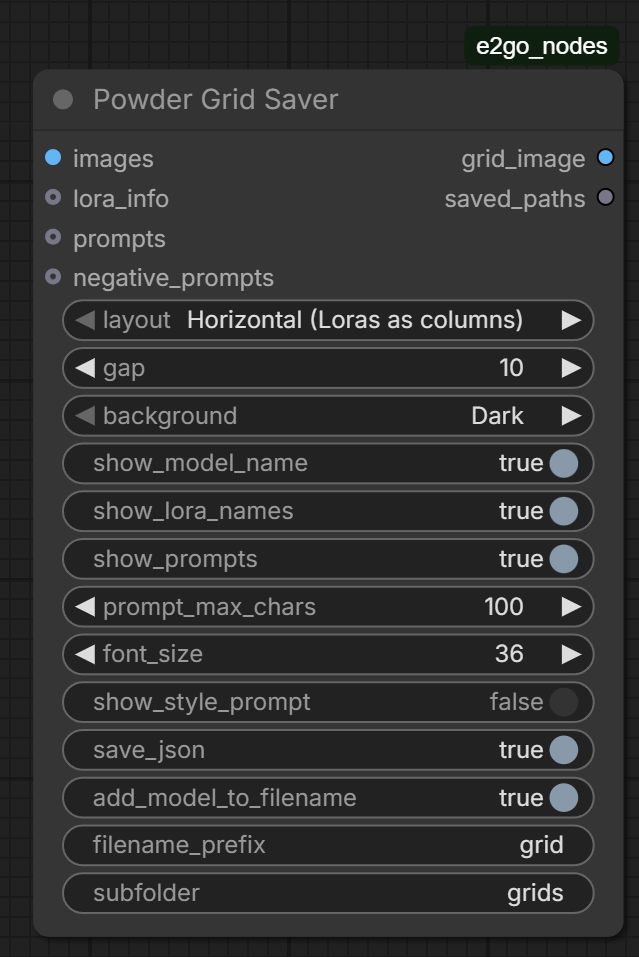
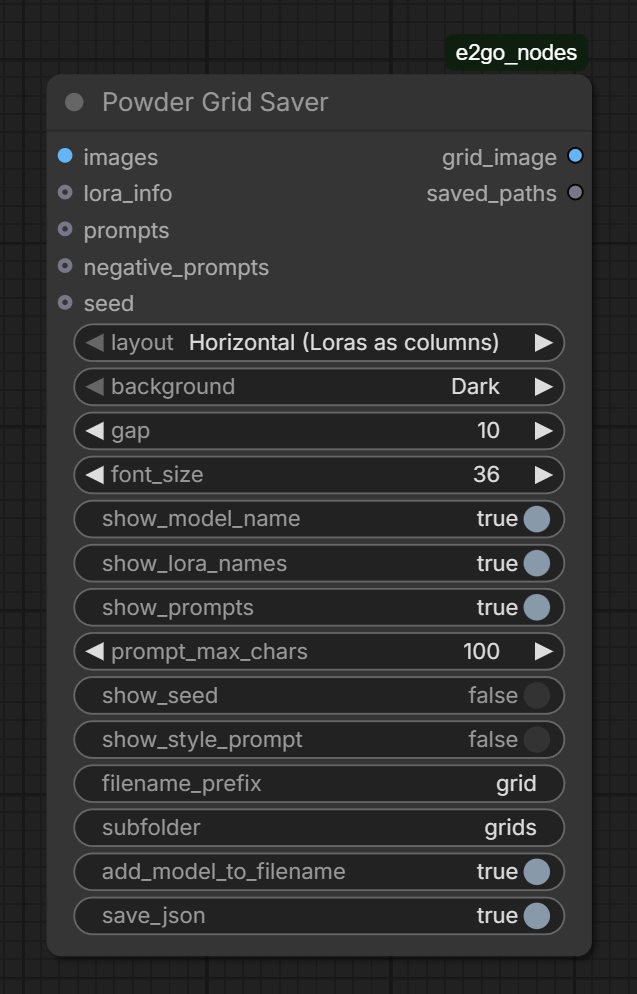
Add per-cell seed display and batch support to Grid Saver
- Add show_seed toggle and seed input with batch-aware labeling (Seed: N [i/batch])
- Cyclic extension of prompts/negatives when fewer than grid cells
- Include batch_size, per-image seeds and batch_indices in JSON metadata
- Reorganize inputs into Layout / Display / Save groups
- Remove unused 7W_Icons style
- Update documentation and screenshots

Changed region(s): [[0.0597, 0.0909, 0.9843, 0.9697], [0.0895, 0.0909, 0.5369, 0.1212], [0.7159, 0.0303, 0.9545, 0.0606]]

diff --git a/powder_grid.py b/powder_grid.py
@@ -41,24 +41,29 @@ class PowderGridSaver:
         return {
             "required": {
                 "images": ("IMAGE",),
+                # --- Layout ---
                 "layout": (["Horizontal (Loras as columns)", "Vertical (Loras as rows)"],),
-                "gap": ("INT", {"default": 10, "min": 0, "max": 100, "step": 1}),
                 "background": (["Dark", "Light"],),
+                "gap": ("INT", {"default": 10, "min": 0, "max": 100, "step": 1}),
+                "font_size": ("INT", {"default": 36, "min": 12, "max": 100, "step": 2}),
+                # --- Display ---
                 "show_model_name": ("BOOLEAN", {"default": True}),
                 "show_lora_names": ("BOOLEAN", {"default": True}),
                 "show_prompts": ("BOOLEAN", {"default": True}),
                 "prompt_max_chars": ("INT", {"default": 100, "min": 10, "max": 500, "step": 10}),
-                "font_size": ("INT", {"default": 36, "min": 12, "max": 100, "step": 2}),
+                "show_seed": ("BOOLEAN", {"default": False}),
                 "show_style_prompt": ("BOOLEAN", {"default": False}),
-                "save_json": ("BOOLEAN", {"default": True}),
-                "add_model_to_filename": ("BOOLEAN", {"default": True}),
+                # --- Save ---
                 "filename_prefix": ("STRING", {"default": "grid"}),
                 "subfolder": ("STRING", {"default": "grids"}),
+                "add_model_to_filename": ("BOOLEAN", {"default": True}),
+                "save_json": ("BOOLEAN", {"default": True}),
             },
             "optional": {
                 "lora_info": ("STRING", {"forceInput": True}),
                 "prompts": ("STRING", {"forceInput": True}),
                 "negative_prompts": ("STRING", {"forceInput": True}),
+                "seed": ("INT", {"forceInput": True}),
             },
             "hidden": {
                 "prompt": "PROMPT",
@@ -82,11 +87,11 @@ class PowderGridSaver:
         """Accept boolean values from new ComfyUI frontend for 2-option combos."""
         return True
 
-    def create_grid(self, images, layout, gap, background, show_model_name,
-                    show_lora_names, show_prompts, prompt_max_chars, font_size,
-                    show_style_prompt, save_json, add_model_to_filename,
-                    filename_prefix, subfolder,
-                    lora_info=None, prompts=None, negative_prompts=None, prompt=None, extra_pnginfo=None):
+    def create_grid(self, images, layout, background, gap, font_size,
+                    show_model_name, show_lora_names, show_prompts, prompt_max_chars,
+                    show_seed, show_style_prompt,
+                    filename_prefix, subfolder, add_model_to_filename, save_json,
+                    lora_info=None, prompts=None, negative_prompts=None, seed=None, prompt=None, extra_pnginfo=None):
 
         # Unpack scalars
         layout = layout[0] if isinstance(layout, list) else layout
@@ -103,15 +108,24 @@ class PowderGridSaver:
         show_prompts = show_prompts[0] if isinstance(show_prompts, list) else show_prompts
         prompt_max_chars = prompt_max_chars[0] if isinstance(prompt_max_chars, list) else prompt_max_chars
         font_size = font_size[0] if isinstance(font_size, list) else font_size
+        show_seed = show_seed[0] if isinstance(show_seed, list) else show_seed
         show_style_prompt = show_style_prompt[0] if isinstance(show_style_prompt, list) else show_style_prompt
         save_json = save_json[0] if isinstance(save_json, list) else save_json
         add_model_to_filename = add_model_to_filename[0] if isinstance(add_model_to_filename, list) else add_model_to_filename
         filename_prefix = filename_prefix[0] if isinstance(filename_prefix, list) else filename_prefix
         subfolder = subfolder[0] if isinstance(subfolder, list) else subfolder
 
-        workflow_prompt = prompt[0] if isinstance(prompt, list) else prompt
+        prompt_list_raw = prompt if isinstance(prompt, list) else [prompt]
+        workflow_prompt = prompt_list_raw[0]
         model_display_name = self._extract_model_from_prompt(workflow_prompt)
         workflow_info = self._extract_workflow_info(workflow_prompt)
+
+        # Seeds: prefer explicit input, fall back to workflow extraction
+        if seed is not None:
+            seed_list = seed if isinstance(seed, list) else [seed]
+        else:
+            wf_seed = workflow_info.get("seed")
+            seed_list = [wf_seed] if wf_seed is not None else []
 
         # Parse lora_info
         lora_names = []
@@ -202,7 +216,27 @@ class PowderGridSaver:
         else:
             num_prompts = total_images if total_images else 1
 
-        display_prompts = prompt_list[:num_prompts] if prompt_list else []
+        # Extend prompts cyclically to fill all rows
+        if prompt_list and len(prompt_list) < num_prompts:
+            display_prompts = (prompt_list * ((num_prompts // len(prompt_list)) + 1))[:num_prompts]
+        else:
+            display_prompts = prompt_list[:num_prompts] if prompt_list else []
+
+        # Build per-image seed info with batch index
+        # When batch_size > 1, ComfyUI generates the full batch from one seed
+        # (torch.manual_seed(seed) → randn([batch, C, H, W])).
+        # Individual batch items don't have separate seeds — they are
+        # reproducible only as "seed + batch index within the run".
+        batch_size = max(1, num_prompts) if num_loras > 0 else 1
+        base_seed = seed_list[0] if seed_list else None
+
+        all_seeds = []          # one entry per image (the base seed used)
+        all_batch_indices = []  # which item in the batch (0-based)
+        if base_seed is not None:
+            for img_i in range(total_images):
+                all_seeds.append(base_seed)
+                all_batch_indices.append(img_i % batch_size)
+        
 
         # Extract style info from workflow
         style_info = self._extract_style_from_workflow(workflow_prompt)
@@ -231,7 +265,8 @@ class PowderGridSaver:
 
         log(f"[PowderGridSaver] === START ===")
         log(f"[PowderGridSaver] Model: {model_display_name or 'Not detected'}")
-        log(f"[PowderGridSaver] Images: {total_images}, Loras: {num_loras}, Prompts: {num_prompts}")
+        log(f"[PowderGridSaver] Images: {total_images}, Loras: {num_loras}, Prompts: {num_prompts}, Batch: {batch_size}")
+        log(f"[PowderGridSaver] Seed: {base_seed}")
         log(f"[PowderGridSaver] Layout: {layout}, Order: {combination_order}, Mode: {lora_mode}")
 
         if not pil_images:
@@ -248,7 +283,10 @@ class PowderGridSaver:
         is_loras_first = "Loras first" in combination_order
 
         lora_labels = self._prepare_lora_labels(lora_names, lora_strengths)
-        display_negatives = negative_list[:num_prompts] if negative_list else []
+        if negative_list and len(negative_list) < num_prompts:
+            display_negatives = (negative_list * ((num_prompts // len(negative_list)) + 1))[:num_prompts]
+        else:
+            display_negatives = negative_list[:num_prompts] if negative_list else []
 
         json_data = {
             "timestamp": timestamp,
@@ -257,7 +295,10 @@ class PowderGridSaver:
             "scheduler": workflow_info.get("scheduler"),
             "steps": workflow_info.get("steps"),
             "cfg": workflow_info.get("cfg"),
-            "seed": workflow_info.get("seed"),
+            "seed": base_seed,
+            "batch_size": batch_size,
+            "seeds": all_seeds,
+            "batch_indices": all_batch_indices,
             "layout": layout,
             "combination_order": combination_order,
             "mode": lora_mode,
@@ -274,6 +315,17 @@ class PowderGridSaver:
             "files": [],
         }
 
+        # Build seed labels for the grid renderer
+        seed_labels = None
+        if show_seed and base_seed is not None:
+            if batch_size > 1:
+                seed_labels = [
+                    f"Seed: {all_seeds[i]} [{all_batch_indices[i]+1}/{batch_size}]"
+                    for i in range(total_images)
+                ]
+            else:
+                seed_labels = [f"Seed: {base_seed}"] * total_images
+
         final_grid = self._create_grid(
             pil_images, lora_labels, display_prompts,
             is_horizontal, is_loras_first,
@@ -281,6 +333,7 @@ class PowderGridSaver:
             gap, background, show_lora_names, show_prompts,
             prompt_max_chars, font_size,
             model_display_name if show_model_name else None,
+            seed_labels,
         )
 
         final_path = os.path.join(output_dir, f"{file_base}.png")
@@ -324,7 +377,8 @@ class PowderGridSaver:
                      is_horizontal, is_loras_first,
                      num_loras, num_prompts,
                      gap, background, show_lora_names, show_prompts,
-                     prompt_max_chars, font_size, model_name=None):
+                     prompt_max_chars, font_size, model_name=None,
+                     seed_labels=None):
 
         if is_horizontal:
             num_cols = num_loras
@@ -345,6 +399,15 @@ class PowderGridSaver:
 
         temp_img = Image.new("RGB", (1, 1))
         temp_draw = ImageDraw.Draw(temp_img)
+
+        # Seed display: always per-cell when labels are provided
+        seed_font = self._load_font(max(12, font_size * 2 // 3))
+        seed_label_height = 0
+        if seed_labels:
+            # Measure the tallest possible seed label
+            sample_label = seed_labels[0] if seed_labels else "Seed: 0"
+            sb = temp_draw.textbbox((0, 0), sample_label, font=seed_font)
+            seed_label_height = sb[3] - sb[1] + 10
 
         title_height = 0
         if model_name:
@@ -382,8 +445,9 @@ class PowderGridSaver:
             bg_color = (240, 240, 240)
             text_color = (32, 32, 32)
 
+        cell_height = img_height + seed_label_height
         total_width = row_label_width + num_cols * img_width + (num_cols - 1) * gap + gap * 2
-        total_height = title_height + header_height + num_rows * img_height + (num_rows - 1) * gap + gap * 2
+        total_height = title_height + header_height + num_rows * cell_height + (num_rows - 1) * gap + gap * 2
 
         grid_img = Image.new("RGB", (total_width, total_height), bg_color)
         draw = ImageDraw.Draw(grid_img)
@@ -405,7 +469,7 @@ class PowderGridSaver:
 
         if row_labels_wrapped:
             for row_idx, lines in enumerate(row_labels_wrapped):
-                y_center = title_height + header_height + gap + row_idx * (img_height + gap) + img_height // 2
+                y_center = title_height + header_height + gap + row_idx * (cell_height + gap) + img_height // 2
                 total_text_height = len(lines) * line_height
                 y_start = y_center - total_text_height // 2
                 for line_idx, line in enumerate(lines):
@@ -432,9 +496,18 @@ class PowderGridSaver:
                 continue
 
             x = row_label_width + gap + col * (img_width + gap)
-            y = title_height + header_height + gap + row * (img_height + gap)
+            y = title_height + header_height + gap + row * (cell_height + gap)
 
             grid_img.paste(pil_img, (x, y))
+
+            # Per-cell seed label below image
+            if seed_labels and img_idx < len(seed_labels):
+                label = seed_labels[img_idx]
+                sb = draw.textbbox((0, 0), label, font=seed_font)
+                sw = sb[2] - sb[0]
+                seed_x = x + (img_width - sw) // 2
+                seed_y = y + img_height + 4
+                draw.text((seed_x, seed_y), label, fill=text_color, font=seed_font)
 
         return grid_img
 

diff --git a/README.md b/README.md
@@ -241,21 +241,23 @@ Assembles images into a grid with labels (model, LoRA, prompts). Saves to file.
 |-------|------|:---:|-------------|
 | **images** | IMAGE | yes | Images for the grid |
 | **layout** | combo | yes | `Horizontal (Loras as columns)` or `Vertical (Loras as rows)` |
-| **gap** | INT | yes | Gap between cells (px) |
 | **background** | combo | yes | `Dark` / `Light` |
+| **gap** | INT | yes | Gap between cells (px) |
+| **font_size** | INT | yes | Font size (12–100) |
 | **show_model_name** | boolean | yes | Show model name |
 | **show_lora_names** | boolean | yes | Show LoRA names |
 | **show_prompts** | boolean | yes | Show prompts |
 | **prompt_max_chars** | INT | yes | Max prompt length in label |
-| **font_size** | INT | yes | Font size |
+| **show_seed** | boolean | yes | Show seed per cell. With batch > 1 displays `Seed: N [i/batch]` |
 | **show_style_prompt** | boolean | yes | **OFF** — append style name to prompt label (e.g. `[Cinematic]`). **ON** — append full style text (prefix + prompt + suffix). Style is auto-detected from PowderStyler in the workflow, no extra wires needed |
-| **save_json** | boolean | yes | Save JSON with metadata |
-| **add_model_to_filename** | boolean | yes | Prepend model name to filename |
 | **filename_prefix** | STRING | yes | Filename prefix |
 | **subfolder** | STRING | yes | Subfolder in output |
+| **add_model_to_filename** | boolean | yes | Prepend model name to filename |
+| **save_json** | boolean | yes | Save JSON with metadata |
 | **lora_info** | STRING | no | JSON from Lora Loader |
 | **prompts** | STRING | no | Prompts for labels |
 | **negative_prompts** | STRING | no | Negative prompts |
+| **seed** | INT | no | Seed value (connected via wire). With batch > 1, individual seeds and batch indices are computed automatically |
 
 #### Outputs
 
@@ -276,6 +278,8 @@ Style metadata (`style_names`, `style_text`, `style_negative`, `style_position`)
 #### JSON Metadata
 
 Generation settings (sampler, scheduler, steps, cfg, seed) are automatically extracted from **any** sampler/scheduler node in the workflow — including Flux split nodes (`KSamplerSelect`, `Flux2Scheduler`, `RandomNoise`, `CFGGuider`, etc.). No configuration needed.
+
+When a `seed` input is connected, the JSON includes `batch_size`, per-image `seeds` array, and `batch_indices` — useful for reproducing specific images from a batch.
 
 #### Fonts
 
@@ -587,21 +591,23 @@ Conditioner собирает финальный промпт из частей:
 |------|-----|:---:|----------|
 | **images** | IMAGE | да | Изображения для grid |
 | **layout** | combo | да | `Horizontal (Loras as columns)` или `Vertical (Loras as rows)` |
-| **gap** | INT | да | Отступ между ячейками (px) |
 | **background** | combo | да | `Dark` / `Light` |
+| **gap** | INT | да | Отступ между ячейками (px) |
+| **font_size** | INT | да | Размер шрифта (12–100) |
 | **show_model_name** | boolean | да | Показывать имя модели |
 | **show_lora_names** | boolean | да | Показывать имена LoRA |
 | **show_prompts** | boolean | да | Показывать промпты |
 | **prompt_max_chars** | INT | да | Макс. длина промпта в подписи |
-| **font_size** | INT | да | Размер шрифта |
+| **show_seed** | boolean | да | Показывать seed под каждой ячейкой. При batch > 1 отображает `Seed: N [i/batch]` |
 | **show_style_prompt** | boolean | да | **OFF** — к промпту дописывается имя стиля (например `[Cinematic]`). **ON** — полный текст стиля (prefix + prompt + suffix). Стиль определяется автоматически из PowderStyler в воркфлоу, дополнительные провода не нужны |
-| **save_json** | boolean | да | Сохранить JSON с метаданными |
-| **add_model_to_filename** | boolean | да | Добавить имя модели в имя файла |
 | **filename_prefix** | STRING | да | Префикс имени файла |
 | **subfolder** | STRING | да | Подпапка в output |
+| **add_model_to_filename** | boolean | да | Добавить имя модели в имя файла |
+| **save_json** | boolean | да | Сохранить JSON с метаданными |
 | **lora_info** | STRING | нет | JSON от Lora Loader |
 | **prompts** | STRING | нет | Промпты для подписей |
 | **negative_prompts** | STRING | нет | Негативные промпты |
+| **seed** | INT | нет | Значение seed (подключается проводом). При batch > 1 индивидуальные seed и batch-индексы вычисляются автоматически |
 
 #### Выходы
 
@@ -622,6 +628,8 @@ Grid Saver автоматически находит ноду PowderStyler в в
 #### JSON-метаданные
 
 Настройки генерации (sampler, scheduler, steps, cfg, seed) автоматически извлекаются из **любых** нод сэмплера/шедулера в воркфлоу — включая split-ноды Flux (`KSamplerSelect`, `Flux2Scheduler`, `RandomNoise`, `CFGGuider` и т.д.). Настройка не требуется.
+
+При подключённом `seed` входе JSON включает `batch_size`, массив `seeds` для каждого изображения и `batch_indices` — полезно для воспроизведения конкретного изображения из батча.
 
 #### Шрифты
 
